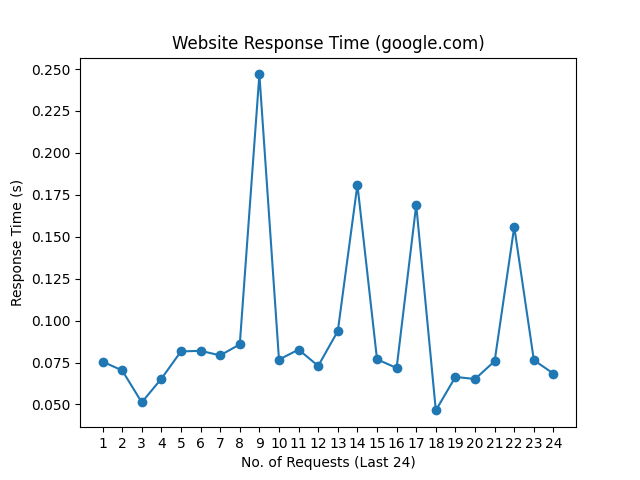
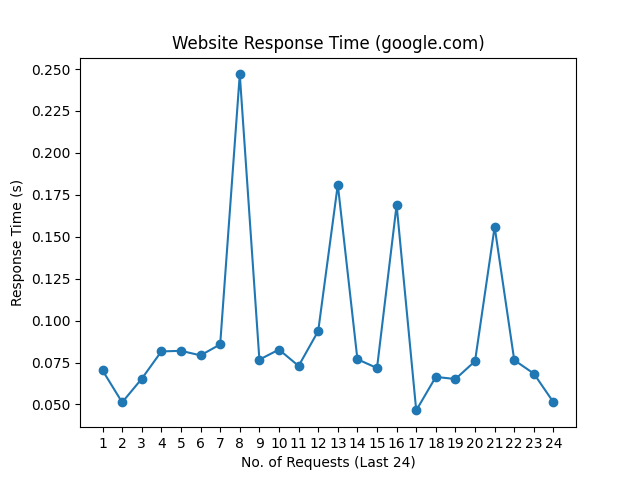
update README.md, history and graph

Changed region(s): [[0.1562, 0.125, 0.875, 0.875]]

diff --git a/README.md b/README.md
@@ -1,10 +1,10 @@
 # Web Monitoring
 
-Last Checked: 31/08/2024 08:18
+Last Checked: 01/09/2024 08:22
 
 | Website | Response Time (s) | Status | Avg Uptime (%) |
 |---------|-------------------|--------|----------------|
 | www.thiswebsiteisdown.net | 0 <br> <img src="graph/thiswebsiteisdown.net.png" alt="Graph" width="200" height="200">  | ❌ Down | 0.00 |
-| www.netflix.com | 0.732748 <br> <img src="graph/netflix.com.png" alt="Graph" width="200" height="200">  | ✅ Up | 100.00 |
-| www.google.com | 0.068393 <br> <img src="graph/google.com.png" alt="Graph" width="200" height="200">  | ✅ Up | 100.00 |
-| www.facebook.com | 0.399044 <br> <img src="graph/facebook.com.png" alt="Graph" width="200" height="200">  | ✅ Up | 100.00 |
+| www.netflix.com | 0.929939 <br> <img src="graph/netflix.com.png" alt="Graph" width="200" height="200">  | ✅ Up | 100.00 |
+| www.google.com | 0.051333 <br> <img src="graph/google.com.png" alt="Graph" width="200" height="200">  | ✅ Up | 100.00 |
+| www.facebook.com | 0.269389 <br> <img src="graph/facebook.com.png" alt="Graph" width="200" height="200">  | ✅ Up | 100.00 |
